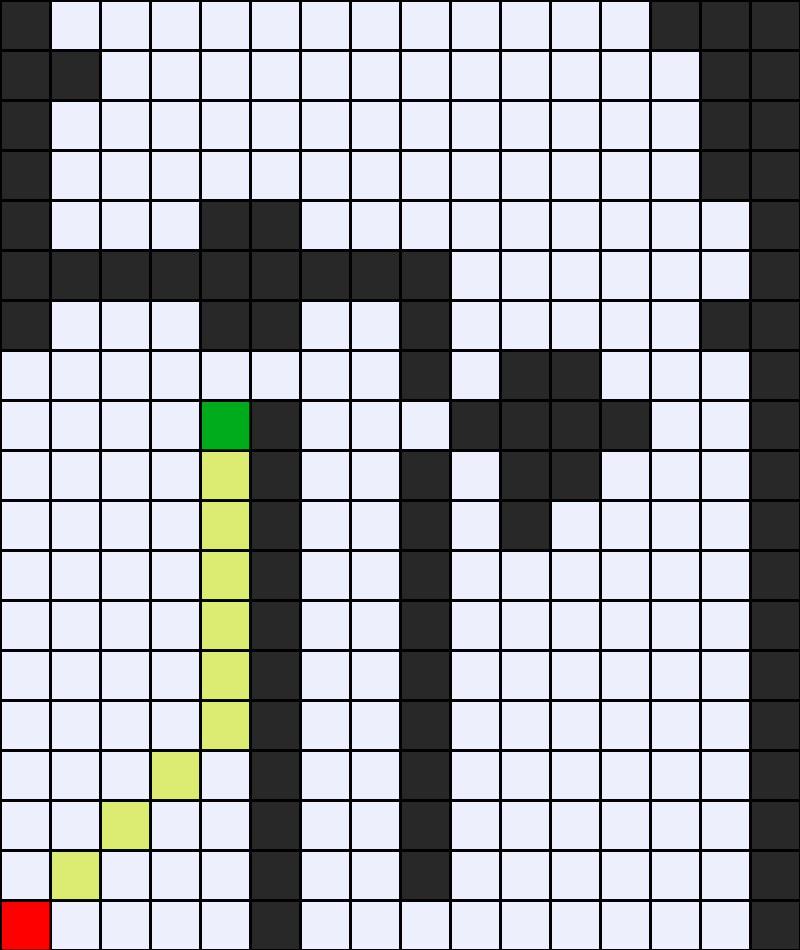
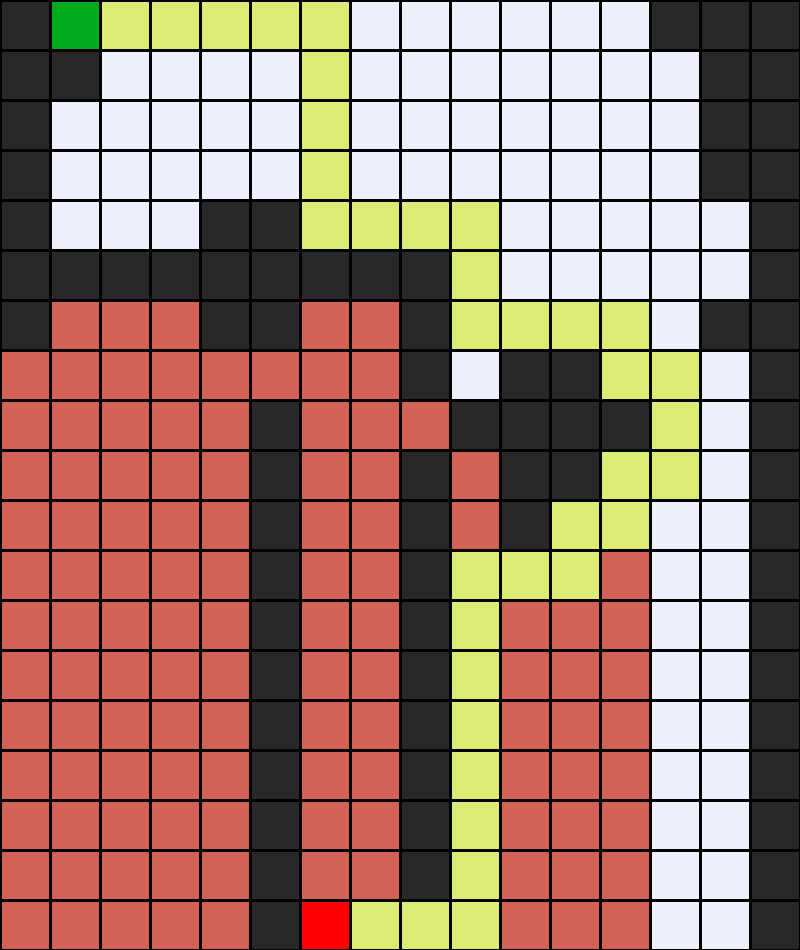
Improved Code Structure

diff --git a/src/maze.py b/src/maze.py
@@ -8,7 +8,9 @@ class Node():
 
 class Maze():
 
-    def __init__(self, filename, goal=None, origin=None):
+    def __init__(self, filename, goal=None, origin=None, diagonals=True):
+
+        self.diagonals = diagonals
 
         # Read file and set height and width of maze
         with open(filename) as f:
@@ -81,15 +83,15 @@ class Maze():
         for action, (r, c) in candidates:
             if 0 <= r < self.height and 0 <= c < self.width and not self.walls[r][c]:
                 result.append((action, (r, c)))
-        
-        if 0 <= row + 1 < self.height and 0 <= col + 1 < self.width and not self.walls[row+1][col] and not self.walls[row][col+1] and not self.walls[row+1][col+1]:
-            result.append(("down-right", (row + 1, col + 1)))
-        if 0 <= row - 1 < self.height and 0 <= col + 1 < self.width and not self.walls[row-1][col] and not self.walls[row][col+1] and not self.walls[row-1][col+1]:
-            result.append(("up-right", (row - 1, col + 1)))
-        if 0 <= row - 1 < self.height and 0 <= col - 1 < self.width and not self.walls[row-1][col] and not self.walls[row][col-1] and not self.walls[row-1][col-1]:
-            result.append(("up-left", (row - 1, col - 1)))
-        if 0 <= row + 1 < self.height and 0 <= col - 1 < self.width and not self.walls[row+1][col] and not self.walls[row][col-1] and not self.walls[row+1][col-1]:
-            result.append(("down-left", (row + 1, col - 1))) 
+        if self.diagonals:
+            if 0 <= row + 1 < self.height and 0 <= col + 1 < self.width and not self.walls[row+1][col] and not self.walls[row][col+1] and not self.walls[row+1][col+1]:
+                result.append(("down-right", (row + 1, col + 1)))
+            if 0 <= row - 1 < self.height and 0 <= col + 1 < self.width and not self.walls[row-1][col] and not self.walls[row][col+1] and not self.walls[row-1][col+1]:
+                result.append(("up-right", (row - 1, col + 1)))
+            if 0 <= row - 1 < self.height and 0 <= col - 1 < self.width and not self.walls[row-1][col] and not self.walls[row][col-1] and not self.walls[row-1][col-1]:
+                result.append(("up-left", (row - 1, col - 1)))
+            if 0 <= row + 1 < self.height and 0 <= col - 1 < self.width and not self.walls[row+1][col] and not self.walls[row][col-1] and not self.walls[row+1][col-1]:
+                result.append(("down-left", (row + 1, col - 1))) 
         return result
 
 

diff --git a/main.py b/main.py
@@ -1,10 +1,7 @@
 import time
-import sys
-
 from src import Maze, AStar, Greedy, QueueFrontier, StackFrontier
 
-if len(sys.argv) != 2:
-    sys.exit("Usage: python maze.py maze.txt")
+PATH_TO_MAZE = "./maze1.txt"
 
 to = time.time()
 
@@ -13,16 +10,16 @@ B = (8, 4)
 C = (18, 6)
 D = (0, 1)
 
-m = Maze(filename=sys.argv[1], origin=A, goal=B)
+m = Maze(filename=PATH_TO_MAZE, origin=C, goal=D, diagonals=False)
 # print("Maze:")
 # m.print()
 print("Solving...")
 m.solve(Algorithm=AStar)
 
-print("States Explored:", m.num_explored)
-# print("Solution:")
-# m.print()
-m.output_image("maze.png", show_explored=True)
+print("States Explored:", m.num_explored) # number of states explored (lower the better)
+print("Number of steps of the solution:", len(m.solution[0]))
+# print("Solution: \n {m.print()}") # prints maze to terminal
+m.output_image("maze.png", show_explored=True)  # saves image of maze
 
-print(m.solution)
+# print(m.solution) #prints solution of the maze in a step by step structure
 print(f"Time spent: {time.time() - to}")
